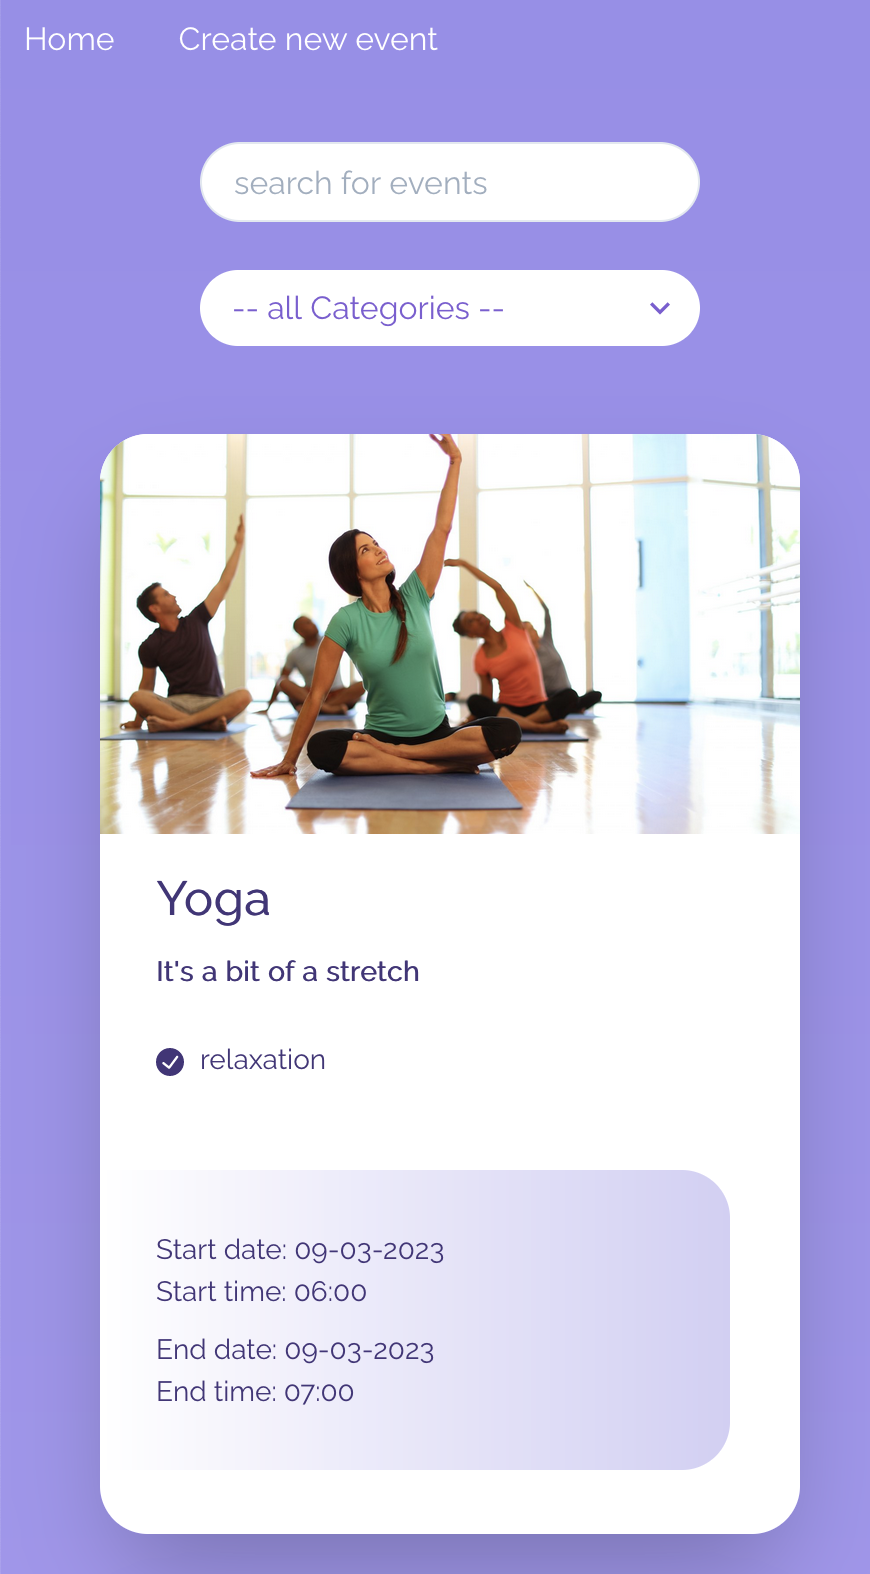
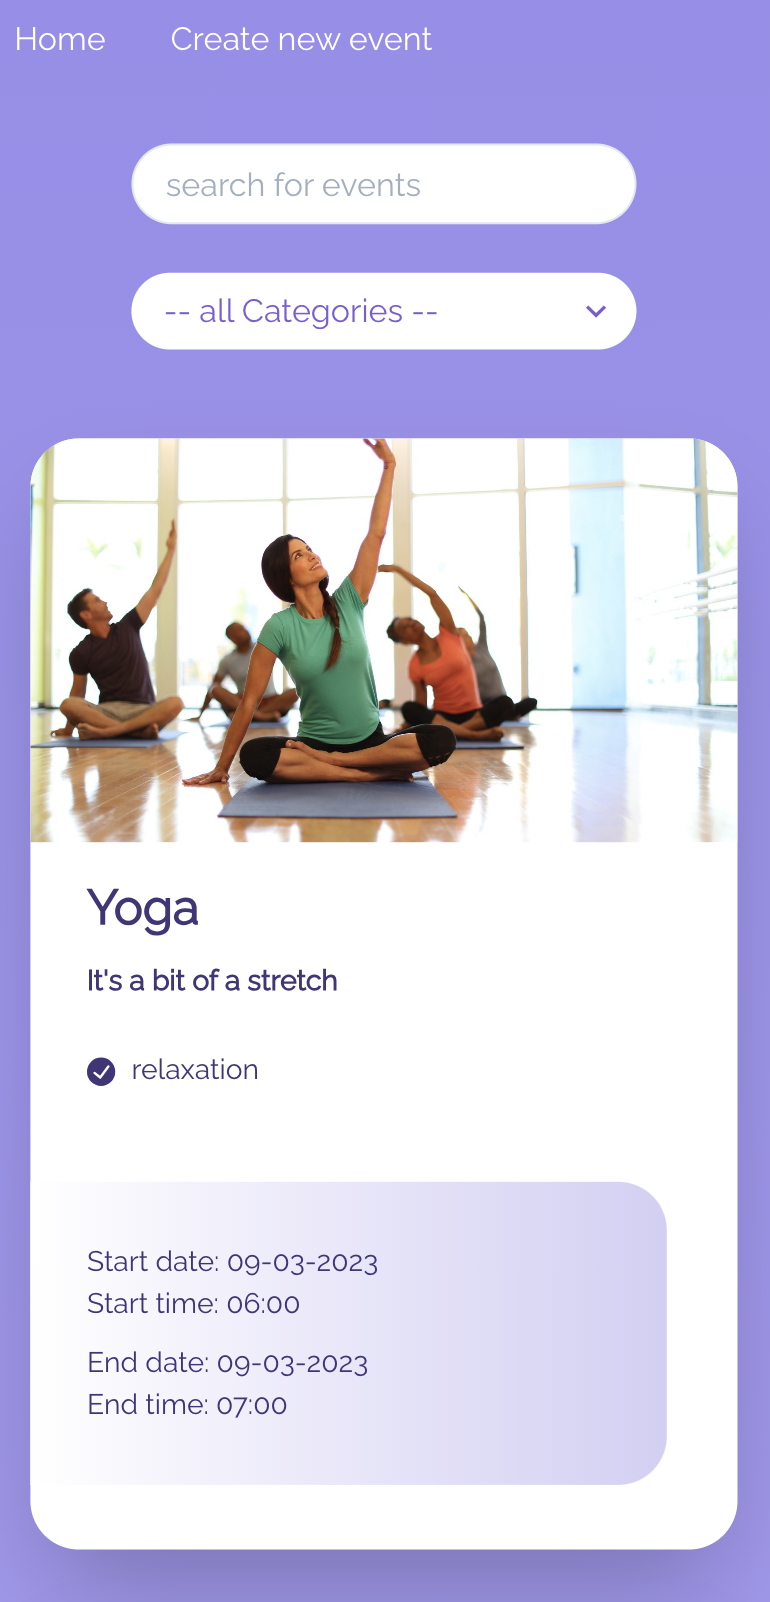
v1.2

diff --git a/index.html b/index.html
@@ -146,6 +146,13 @@
                                                             >Link naar live
                                                             version</a
                                                         >
+                                                        <br /><a
+                                                            class="external_link"
+                                                            href="https://github.com/Martijns3/site"
+                                                            target="_blank"
+                                                            rel="noopener noreferrer"
+                                                            >Link naar GitHub</a
+                                                        >
                                                     </p>
                                                     <br /><br />
                                                 </div>

diff --git a/css/tooplate-style.css b/css/tooplate-style.css
@@ -648,7 +648,7 @@ a {
 .project_main_img2 {
     border-radius: 12px;
     width: 375px;
-    height: 717px;
+    height: 708px;
 }
 .project_main_img3 {
     border-radius: 12px;
@@ -662,7 +662,7 @@ a {
     }
     .project_main_img2 {
         width: 350px;
-        height: 669px;
+        height: 661px;
     }
     .project_main_img3 {
         width: 350px;
